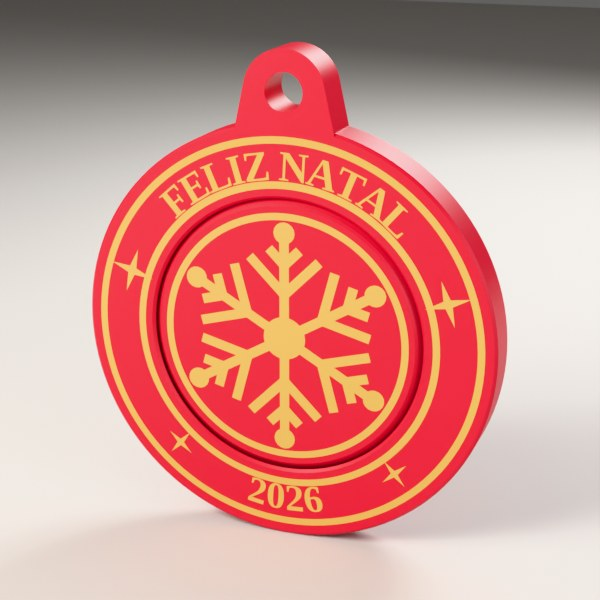
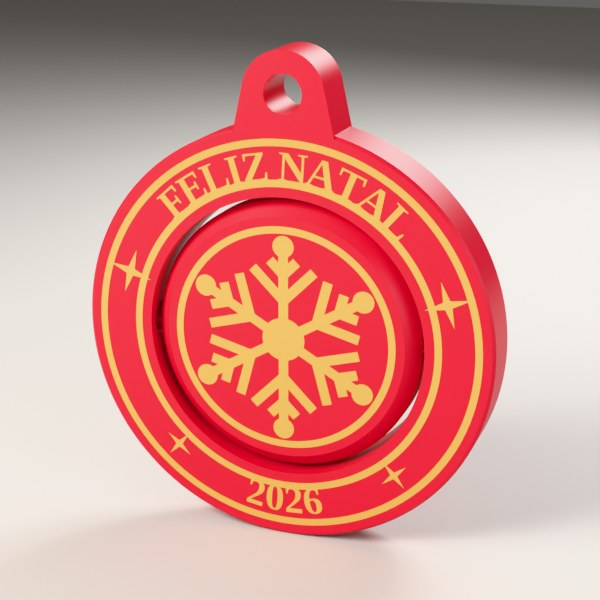
Fidget Moeda Giratória (gira para a frente), Fidget Spinner e Pião de Natal

diff --git a/index.html b/index.html
@@ -111,7 +111,7 @@ html, body { overflow-x:hidden; }
 </aside>
 <div id="toast"></div>
 <script>
-const D = {"itens": [{"id": "igreja", "nome": "Luminária Igreja Matriz", "texto": "A Matriz de Conceição do Coité iluminada por dentro, com as janelas brilhando. Base com o seu texto em letras douradas.", "img": "img/igreja.jpg", "medidas": "15,6 x 10,2 x 16,6 cm", "luz": "LED USB ou velinhas de LED", "preco": null, "preco_txt": "", "variacoes": [["Iluminação", ["LED USB", "2 velinhas de LED"]]], "campo": "Texto da base", "exemplo": "NATAL COITÉ / FAMÍLIA SILVA", "fotos": [{"quando": {"Iluminação": "2 velinhas de LED"}, "img": "img/igreja__velas.jpg"}, {"quando": {"Iluminação": "LED USB"}, "img": "img/igreja.jpg"}], "acesas": {"img/igreja.jpg": "img/igreja__acesa.jpg", "img/igreja__velas.jpg": "img/igreja__velas__acesa.jpg"}}, {"id": "arvore_luminaria", "nome": "Luminária Árvore Natal Luz", "texto": "Árvore translúcida com aros e estrela, que acende com LED. O texto contorna a base.", "img": "img/arvore_luminaria.jpg", "medidas": "12,4 x 12,5 x 24,3 cm", "luz": "LED USB", "preco": null, "preco_txt": "", "variacoes": [], "campo": "Texto da base", "exemplo": "NATAL COITÉ 2026", "fotos": [], "acesas": {"img/arvore_luminaria.jpg": "img/arvore_luminaria__acesa.jpg"}}, {"id": "estrela", "nome": "Estrela Luminosa", "texto": "A estrela de 4 pontas do Natal Coité, com a Matriz desenhada em dourado. Acende por dentro. Também no tema Natal clássico, com árvore de Natal no lugar da Matriz.", "img": "img/estrela.jpg", "medidas": "16,9 x 5,2 x 15,8 cm", "luz": "LED USB ou velinha de LED", "preco": null, "preco_txt": "", "variacoes": [["Tema", ["Natal Coité 2026", "Natal Clássico"]], ["Iluminação", ["LED USB", "Velinha de LED"]]], "campo": "Palavras dos braços", "exemplo": "NATAL / COITÉ", "fotos": [{"quando": {"Tema": "Natal Clássico", "Iluminação": "Velinha de LED"}, "img": "img/estrela__natal_velas.jpg"}, {"quando": {"Tema": "Natal Clássico"}, "img": "img/estrela__natal.jpg"}, {"quando": {"Iluminação": "Velinha de LED"}, "img": "img/estrela__velas.jpg"}, {"quando": {"Iluminação": "LED USB"}, "img": "img/estrela.jpg"}], "acesas": {"img/estrela.jpg": "img/estrela__acesa.jpg", "img/estrela__natal_velas.jpg": "img/estrela__natal_velas__acesa.jpg", "img/estrela__natal.jpg": "img/estrela__natal__acesa.jpg", "img/estrela__velas.jpg": "img/estrela__velas__acesa.jpg"}}, {"id": "presepio", "nome": "Presépio em Camadas", "texto": "Presépio em silhueta, em camadas, com a Matriz e a estrela ao fundo. Cabe uma velinha de LED atrás. Também no tema Natal clássico, com árvore de Natal no lugar da Matriz.", "img": "img/presepio.jpg", "medidas": "17 x 8,2 x 13,9 cm", "luz": "", "preco": null, "preco_txt": "", "variacoes": [["Tema", ["Natal Coité 2026", "Natal Clássico"]]], "campo": "Texto da frente", "exemplo": "NATAL COITÉ • 2026", "fotos": [{"quando": {"Tema": "Natal Clássico"}, "img": "img/presepio__natal.jpg"}], "acesas": {}}, {"id": "guirlanda", "nome": "Guirlanda de Porta", "texto": "Guirlanda de azevinho com frutinhas e medalhão central com a Matriz e o nome da família. Pronta para pendurar. Também no tema Natal clássico, com árvore de Natal no lugar da Matriz.", "img": "img/guirlanda.jpg", "medidas": "31,4 x 31,8 cm", "luz": "", "preco": null, "preco_txt": "", "variacoes": [["Tema", ["Natal Coité 2026", "Natal Clássico"]]], "campo": "Nome da família", "exemplo": "FAMÍLIA SILVA", "fotos": [{"quando": {"Tema": "Natal Clássico"}, "img": "img/guirlanda__natal.jpg"}], "acesas": {}}, {"id": "placa", "nome": "Placa de Mesa", "texto": "Placa em arco com a Matriz em traço dourado, com pé que encaixa. Ótima para a mesa da ceia ou o comércio. Também no tema Natal clássico, com árvore de Natal no lugar da Matriz.", "img": "img/placa.jpg", "medidas": "16,6 x 5,1 x 12,9 cm", "luz": "", "preco": null, "preco_txt": "", "variacoes": [["Tema", ["Natal Coité 2026", "Natal Clássico"]]], "campo": "Linha de baixo", "exemplo": "CONCEIÇÃO DO COITÉ • 2026", "fotos": [{"quando": {"Tema": "Natal Clássico"}, "img": "img/placa__natal.jpg"}], "acesas": {}}, {"id": "porta_retrato", "nome": "Porta-retrato 10x15", "texto": "Moldura com a Matriz e o nome da família em dourado, tampa de trás com trava e pezinho. Também no tema Natal clássico, com árvore de Natal no lugar da Matriz.", "img": "img/porta_retrato.jpg", "medidas": "13,4 x 6,2 x 23,3 cm", "luz": "", "preco": null, "preco_txt": "", "variacoes": [["Tema", ["Natal Coité 2026", "Natal Clássico"]]], "campo": "Nome da família", "exemplo": "FAMÍLIA SILVA • 2026", "fotos": [{"quando": {"Tema": "Natal Clássico"}, "img": "img/porta_retrato__natal.jpg"}], "acesas": {}}, {"id": "portacopos", "nome": "Jogo de Porta-copos", "texto": "4 porta-copos (Matriz, estrela, floco e nome da família) num suporte com a fachada da Matriz. Também no tema Natal clássico, com árvore de Natal no lugar da Matriz.", "img": "img/portacopos.jpg", "medidas": "10,2 x 10,2 x 8,5 cm", "luz": "", "preco": null, "preco_txt": "", "variacoes": [["Tema", ["Natal Coité 2026", "Natal Clássico"]], ["Desenhos", ["Jogo variado", "Todos Matriz", "Todos estrela", "Todos floco de neve", "Todos com o nome"]], ["Suporte", ["Com suporte da Matriz", "Sem suporte"]]], "campo": "Nome da família", "exemplo": "FAMÍLIA SILVA", "fotos": [{"quando": {"Tema": "Natal Clássico"}, "img": "img/portacopos__natal.jpg"}, {"quando": {"Desenhos": "Jogo variado", "Suporte": "Com suporte da Matriz"}, "img": "img/portacopos__variado_sim.jpg"}, {"quando": {"Desenhos": "Jogo variado", "Suporte": "Sem suporte"}, "img": "img/portacopos__variado_nao.jpg"}, {"quando": {"Desenhos": "Todos Matriz", "Suporte": "Com suporte da Matriz"}, "img": "img/portacopos__matriz_sim.jpg"}, {"quando": {"Desenhos": "Todos Matriz", "Suporte": "Sem suporte"}, "img": "img/portacopos__matriz_nao.jpg"}, {"quando": {"Desenhos": "Todos estrela", "Suporte": "Com suporte da Matriz"}, "img": "img/portacopos__estrela_sim.jpg"}, {"quando": {"Desenhos": "Todos estrela", "Suporte": "Sem suporte"}, "img": "img/portacopos__estrela_nao.jpg"}, {"quando": {"Desenhos": "Todos floco de neve", "Suporte": "Com suporte da Matriz"}, "img": "img/portacopos__floco_sim.jpg"}, {"quando": {"Desenhos": "Todos floco de neve", "Suporte": "Sem suporte"}, "img": "img/portacopos__floco_nao.jpg"}, {"quando": {"Desenhos": "Todos com o nome", "Suporte": "Com suporte da Matriz"}, "img": "img/portacopos__nome_sim.jpg"}, {"quando": {"Desenhos": "Todos com o nome", "Suporte": "Sem suporte"}, "img": "img/portacopos__nome_nao.jpg"}], "acesas": {}}, {"id": "miniatura", "nome": "Miniatura da Matriz", "texto": "A Igreja Matriz em 3D, pequena, para pendurar na árvore ou enfeitar a estante.", "img": "img/miniatura.jpg", "medidas": "6,3 x 4 x 6,1 cm", "luz": "", "preco": null, "preco_txt": "", "variacoes": [["Uso", ["Enfeite de árvore (com argola)", "Peça de mesa (sem argola)"]]], "campo": "Nome gravado atrás (opcional)", "exemplo": "FAMÍLIA SILVA", "fotos": [{"quando": {"Uso": "Peça de mesa (sem argola)"}, "img": "img/miniatura__sem_argola.jpg"}, {"quando": {"Uso": "Enfeite de árvore (com argola)"}, "img": "img/miniatura.jpg"}], "acesas": {}}, {"id": "bola", "nome": "Bola de Natal com Nome", "texto": "Bola de 8 cm com o nome em letras douradas na frente e a Matriz no verso. Também no tema Natal clássico, com árvore de Natal e FELIZ NATAL no verso.", "img": "img/bola.jpg", "medidas": "8 x 8,2 x 9 cm", "luz": "", "preco": null, "preco_txt": "", "variacoes": [["Tema", ["Natal Coité 2026", "Natal Clássico"]], ["Verso", ["Desenho do tema", "Floco de neve"]]], "campo": "Nome", "exemplo": "MARIA", "fotos": [{"quando": {"Tema": "Natal Coité 2026", "Verso": "Desenho do tema"}, "img": "img/bola__matriz.jpg"}, {"quando": {"Tema": "Natal Clássico", "Verso": "Desenho do tema"}, "img": "img/bola__arvore.jpg"}, {"quando": {"Verso": "Floco de neve"}, "img": "img/bola__floco.jpg"}], "acesas": {}}, {"id": "chaveiro", "nome": "Chaveiro Igreja, Árvore ou Circo", "texto": "Chaveiro no contorno da nossa Matriz, de uma árvore de Natal ou da lona de circo (tema do Natal 2026). Leve e resistente.", "img": "img/chaveiro.jpg", "medidas": "11 x 6,1 cm", "luz": "", "preco": null, "preco_txt": "", "variacoes": [["Modelo", ["Igreja Matriz", "Árvore de Natal", "Circo"]]], "campo": "Texto da faixa", "exemplo": "NATAL COITÉ", "fotos": [{"quando": {"Modelo": "Igreja Matriz"}, "img": "img/chaveiro__igreja.jpg"}, {"quando": {"Modelo": "Circo"}, "img": "img/chaveiro__circo.jpg"}, {"quando": {"Modelo": "Árvore de Natal"}, "img": "img/chaveiro__arvore.jpg"}], "acesas": {}}, {"id": "fidget", "nome": "Fidget Giratório", "texto": "Chaveiro que gira de verdade e já sai pronto da impressora: roleta de circo (tema do Natal 2026) ou floco de neve com FELIZ NATAL (Natal clássico).", "img": "img/fidget.jpg", "medidas": "4,7 x 5,5 cm", "luz": "", "preco": null, "preco_txt": "", "variacoes": [["Tema", ["Natal Coité 2026", "Natal Clássico"]]], "campo": "Texto do arco", "exemplo": "NATAL COITÉ", "fotos": [{"quando": {"Tema": "Natal Clássico"}, "img": "img/fidget__natal.jpg"}], "acesas": {}}, {"id": "medalhao", "nome": "Medalhão: enfeite, chaveiro ou ímã", "texto": "Arco, estrela e a Matriz em dourado. Em três tamanhos: enfeite de árvore, chaveiro ou ímã de geladeira. Também no tema Natal clássico, com árvore de Natal no lugar da Matriz.", "img": "img/medalhao.jpg", "medidas": "Ø 8 cm / 4,5 cm / 5,5 cm", "luz": "", "preco": null, "preco_txt": "", "variacoes": [["Tema", ["Natal Coité 2026", "Natal Clássico"]], ["Formato", ["Enfeite de árvore Ø 8 cm", "Chaveiro Ø 4,5 cm", "Ímã de geladeira Ø 5,5 cm"]]], "campo": "", "exemplo": "", "fotos": [{"quando": {"Tema": "Natal Clássico"}, "img": "img/medalhao__natal.jpg"}, {"quando": {"Formato": "Chaveiro Ø 4,5 cm"}, "img": "img/medalhao__chaveiro.jpg"}, {"quando": {"Formato": "Ímã de geladeira Ø 5,5 cm"}, "img": "img/medalhao__ima.jpg"}, {"quando": {"Formato": "Enfeite de árvore Ø 8 cm"}, "img": "img/medalhao.jpg"}], "acesas": {}}, {"id": "tags", "nome": "Tags de Presente", "texto": "Etiquetas com a Matriz e o nome de quem vai ganhar o presente, ou em branco para escrever. Também no tema Natal clássico, com árvore de Natal no lugar da Matriz.", "img": "img/tags.jpg", "medidas": "4,4 x 7,2 cm", "luz": "", "preco": null, "preco_txt": "", "variacoes": [["Tema", ["Natal Coité 2026", "Natal Clássico"]]], "campo": "Nome (vazio = tag em branco DE/PARA)", "exemplo": "MARIA", "fotos": [{"quando": {"Tema": "Natal Clássico"}, "img": "img/tags__natal.jpg"}], "acesas": {}}, {"id": "marcador", "nome": "Marcador de Página", "texto": "Marcador com o nome, a Matriz em dourado e clipe que prende na página, com a pontinha da estrela para fora do livro. Lembrança que dura o ano todo. Também no tema Natal clássico, com árvore de Natal no lugar da Matriz.", "img": "img/marcador.jpg", "medidas": "4,8 x 16 cm", "luz": "", "preco": null, "preco_txt": "", "variacoes": [["Tema", ["Natal Coité 2026", "Natal Clássico"]]], "campo": "Nome", "exemplo": "ANA BEATRIZ", "fotos": [{"quando": {"Tema": "Natal Clássico"}, "img": "img/marcador__natal.jpg"}], "acesas": {}}], "whats": "5575992067303", "loja": "Loja Sigma Lab - Natal 2026", "marca": "Sigma Lab 3D"};
+const D = {"itens": [{"id": "igreja", "nome": "Luminária Igreja Matriz", "texto": "A Matriz de Conceição do Coité iluminada por dentro, com as janelas brilhando. Base com o seu texto em letras douradas.", "img": "img/igreja.jpg", "medidas": "15,6 x 10,2 x 16,6 cm", "luz": "LED USB ou velinhas de LED", "preco": null, "preco_txt": "", "variacoes": [["Iluminação", ["LED USB", "2 velinhas de LED"]]], "campo": "Texto da base", "exemplo": "NATAL COITÉ / FAMÍLIA SILVA", "fotos": [{"quando": {"Iluminação": "2 velinhas de LED"}, "img": "img/igreja__velas.jpg"}, {"quando": {"Iluminação": "LED USB"}, "img": "img/igreja.jpg"}], "acesas": {"img/igreja.jpg": "img/igreja__acesa.jpg", "img/igreja__velas.jpg": "img/igreja__velas__acesa.jpg"}}, {"id": "arvore_luminaria", "nome": "Luminária Árvore Natal Luz", "texto": "Árvore translúcida com aros e estrela, que acende com LED. O texto contorna a base.", "img": "img/arvore_luminaria.jpg", "medidas": "12,4 x 12,5 x 24,3 cm", "luz": "LED USB", "preco": null, "preco_txt": "", "variacoes": [], "campo": "Texto da base", "exemplo": "NATAL COITÉ 2026", "fotos": [], "acesas": {"img/arvore_luminaria.jpg": "img/arvore_luminaria__acesa.jpg"}}, {"id": "estrela", "nome": "Estrela Luminosa", "texto": "A estrela de 4 pontas do Natal Coité, com a Matriz desenhada em dourado. Acende por dentro. Também no tema Natal clássico, com árvore de Natal no lugar da Matriz.", "img": "img/estrela.jpg", "medidas": "16,9 x 5,2 x 15,8 cm", "luz": "LED USB ou velinha de LED", "preco": null, "preco_txt": "", "variacoes": [["Tema", ["Natal Coité 2026", "Natal Clássico"]], ["Iluminação", ["LED USB", "Velinha de LED"]]], "campo": "Palavras dos braços", "exemplo": "NATAL / COITÉ", "fotos": [{"quando": {"Tema": "Natal Clássico", "Iluminação": "Velinha de LED"}, "img": "img/estrela__natal_velas.jpg"}, {"quando": {"Tema": "Natal Clássico"}, "img": "img/estrela__natal.jpg"}, {"quando": {"Iluminação": "Velinha de LED"}, "img": "img/estrela__velas.jpg"}, {"quando": {"Iluminação": "LED USB"}, "img": "img/estrela.jpg"}], "acesas": {"img/estrela.jpg": "img/estrela__acesa.jpg", "img/estrela__natal_velas.jpg": "img/estrela__natal_velas__acesa.jpg", "img/estrela__natal.jpg": "img/estrela__natal__acesa.jpg", "img/estrela__velas.jpg": "img/estrela__velas__acesa.jpg"}}, {"id": "presepio", "nome": "Presépio em Camadas", "texto": "Presépio em silhueta, em camadas, com a Matriz e a estrela ao fundo. Cabe uma velinha de LED atrás. Também no tema Natal clássico, com árvore de Natal no lugar da Matriz.", "img": "img/presepio.jpg", "medidas": "17 x 8,2 x 13,9 cm", "luz": "", "preco": null, "preco_txt": "", "variacoes": [["Tema", ["Natal Coité 2026", "Natal Clássico"]]], "campo": "Texto da frente", "exemplo": "NATAL COITÉ • 2026", "fotos": [{"quando": {"Tema": "Natal Clássico"}, "img": "img/presepio__natal.jpg"}], "acesas": {}}, {"id": "guirlanda", "nome": "Guirlanda de Porta", "texto": "Guirlanda de azevinho com frutinhas e medalhão central com a Matriz e o nome da família. Pronta para pendurar. Também no tema Natal clássico, com árvore de Natal no lugar da Matriz.", "img": "img/guirlanda.jpg", "medidas": "31,4 x 31,8 cm", "luz": "", "preco": null, "preco_txt": "", "variacoes": [["Tema", ["Natal Coité 2026", "Natal Clássico"]]], "campo": "Nome da família", "exemplo": "FAMÍLIA SILVA", "fotos": [{"quando": {"Tema": "Natal Clássico"}, "img": "img/guirlanda__natal.jpg"}], "acesas": {}}, {"id": "placa", "nome": "Placa de Mesa", "texto": "Placa em arco com a Matriz em traço dourado, com pé que encaixa. Ótima para a mesa da ceia ou o comércio. Também no tema Natal clássico, com árvore de Natal no lugar da Matriz.", "img": "img/placa.jpg", "medidas": "16,6 x 5,1 x 12,9 cm", "luz": "", "preco": null, "preco_txt": "", "variacoes": [["Tema", ["Natal Coité 2026", "Natal Clássico"]]], "campo": "Linha de baixo", "exemplo": "CONCEIÇÃO DO COITÉ • 2026", "fotos": [{"quando": {"Tema": "Natal Clássico"}, "img": "img/placa__natal.jpg"}], "acesas": {}}, {"id": "porta_retrato", "nome": "Porta-retrato 10x15", "texto": "Moldura com a Matriz e o nome da família em dourado, tampa de trás com trava e pezinho. Também no tema Natal clássico, com árvore de Natal no lugar da Matriz.", "img": "img/porta_retrato.jpg", "medidas": "13,4 x 6,2 x 23,3 cm", "luz": "", "preco": null, "preco_txt": "", "variacoes": [["Tema", ["Natal Coité 2026", "Natal Clássico"]]], "campo": "Nome da família", "exemplo": "FAMÍLIA SILVA • 2026", "fotos": [{"quando": {"Tema": "Natal Clássico"}, "img": "img/porta_retrato__natal.jpg"}], "acesas": {}}, {"id": "portacopos", "nome": "Jogo de Porta-copos", "texto": "4 porta-copos (Matriz, estrela, floco e nome da família) num suporte com a fachada da Matriz. Também no tema Natal clássico, com árvore de Natal no lugar da Matriz.", "img": "img/portacopos.jpg", "medidas": "10,2 x 10,2 x 8,5 cm", "luz": "", "preco": null, "preco_txt": "", "variacoes": [["Tema", ["Natal Coité 2026", "Natal Clássico"]], ["Desenhos", ["Jogo variado", "Todos Matriz", "Todos estrela", "Todos floco de neve", "Todos com o nome"]], ["Suporte", ["Com suporte da Matriz", "Sem suporte"]]], "campo": "Nome da família", "exemplo": "FAMÍLIA SILVA", "fotos": [{"quando": {"Tema": "Natal Clássico"}, "img": "img/portacopos__natal.jpg"}, {"quando": {"Desenhos": "Jogo variado", "Suporte": "Com suporte da Matriz"}, "img": "img/portacopos__variado_sim.jpg"}, {"quando": {"Desenhos": "Jogo variado", "Suporte": "Sem suporte"}, "img": "img/portacopos__variado_nao.jpg"}, {"quando": {"Desenhos": "Todos Matriz", "Suporte": "Com suporte da Matriz"}, "img": "img/portacopos__matriz_sim.jpg"}, {"quando": {"Desenhos": "Todos Matriz", "Suporte": "Sem suporte"}, "img": "img/portacopos__matriz_nao.jpg"}, {"quando": {"Desenhos": "Todos estrela", "Suporte": "Com suporte da Matriz"}, "img": "img/portacopos__estrela_sim.jpg"}, {"quando": {"Desenhos": "Todos estrela", "Suporte": "Sem suporte"}, "img": "img/portacopos__estrela_nao.jpg"}, {"quando": {"Desenhos": "Todos floco de neve", "Suporte": "Com suporte da Matriz"}, "img": "img/portacopos__floco_sim.jpg"}, {"quando": {"Desenhos": "Todos floco de neve", "Suporte": "Sem suporte"}, "img": "img/portacopos__floco_nao.jpg"}, {"quando": {"Desenhos": "Todos com o nome", "Suporte": "Com suporte da Matriz"}, "img": "img/portacopos__nome_sim.jpg"}, {"quando": {"Desenhos": "Todos com o nome", "Suporte": "Sem suporte"}, "img": "img/portacopos__nome_nao.jpg"}], "acesas": {}}, {"id": "miniatura", "nome": "Miniatura da Matriz", "texto": "A Igreja Matriz em 3D, pequena, para pendurar na árvore ou enfeitar a estante.", "img": "img/miniatura.jpg", "medidas": "6,3 x 4 x 6,1 cm", "luz": "", "preco": null, "preco_txt": "", "variacoes": [["Uso", ["Enfeite de árvore (com argola)", "Peça de mesa (sem argola)"]]], "campo": "Nome gravado atrás (opcional)", "exemplo": "FAMÍLIA SILVA", "fotos": [{"quando": {"Uso": "Peça de mesa (sem argola)"}, "img": "img/miniatura__sem_argola.jpg"}, {"quando": {"Uso": "Enfeite de árvore (com argola)"}, "img": "img/miniatura.jpg"}], "acesas": {}}, {"id": "bola", "nome": "Bola de Natal com Nome", "texto": "Bola de 8 cm com o nome em letras douradas na frente e a Matriz no verso. Também no tema Natal clássico, com árvore de Natal e FELIZ NATAL no verso.", "img": "img/bola.jpg", "medidas": "8 x 8,2 x 9 cm", "luz": "", "preco": null, "preco_txt": "", "variacoes": [["Tema", ["Natal Coité 2026", "Natal Clássico"]], ["Verso", ["Desenho do tema", "Floco de neve"]]], "campo": "Nome", "exemplo": "MARIA", "fotos": [{"quando": {"Tema": "Natal Coité 2026", "Verso": "Desenho do tema"}, "img": "img/bola__matriz.jpg"}, {"quando": {"Tema": "Natal Clássico", "Verso": "Desenho do tema"}, "img": "img/bola__arvore.jpg"}, {"quando": {"Verso": "Floco de neve"}, "img": "img/bola__floco.jpg"}], "acesas": {}}, {"id": "chaveiro", "nome": "Chaveiro Igreja, Árvore ou Circo", "texto": "Chaveiro no contorno da nossa Matriz, de uma árvore de Natal ou da lona de circo (tema do Natal 2026). Leve e resistente.", "img": "img/chaveiro.jpg", "medidas": "11 x 6,1 cm", "luz": "", "preco": null, "preco_txt": "", "variacoes": [["Modelo", ["Igreja Matriz", "Árvore de Natal", "Circo"]]], "campo": "Texto da faixa", "exemplo": "NATAL COITÉ", "fotos": [{"quando": {"Modelo": "Igreja Matriz"}, "img": "img/chaveiro__igreja.jpg"}, {"quando": {"Modelo": "Circo"}, "img": "img/chaveiro__circo.jpg"}, {"quando": {"Modelo": "Árvore de Natal"}, "img": "img/chaveiro__arvore.jpg"}], "acesas": {}}, {"id": "fidget", "nome": "Fidget Moeda Giratória", "texto": "Chaveiro que gira de verdade e já sai pronto da impressora: o disco vira para a frente, como moeda. De um lado a roleta do circo, do outro a Matriz (no Natal Clássico: floco de neve e árvore).", "img": "img/fidget.jpg", "medidas": "4,6 x 5,4 cm", "luz": "", "preco": null, "preco_txt": "", "variacoes": [["Tema", ["Natal Coité 2026", "Natal Clássico"]]], "campo": "Texto do arco", "exemplo": "NATAL COITÉ", "fotos": [{"quando": {"Tema": "Natal Clássico"}, "img": "img/fidget__natal.jpg"}], "acesas": {}}, {"id": "spinner", "nome": "Fidget Spinner", "texto": "Spinner de 3 braços com estrelas douradas (no Natal Clássico, flocos de neve). Sai pronto da impressora ou com rolamento 608, que gira muito mais tempo.", "img": "img/spinner.jpg", "medidas": "7,2 x 7,2 cm", "luz": "", "preco": null, "preco_txt": "", "variacoes": [["Tema", ["Natal Coité 2026", "Natal Clássico"]], ["Tipo", ["Pronto da impressora", "Com rolamento 608"]]], "campo": "Observação (opcional)", "exemplo": "cores: vermelho e dourado", "fotos": [{"quando": {"Tema": "Natal Clássico"}, "img": "img/spinner__natal.jpg"}, {"quando": {"Tipo": "Com rolamento 608"}, "img": "img/spinner__608.jpg"}], "acesas": {}}, {"id": "piao", "nome": "Pião de Natal", "texto": "Pião de mesa com texto em volta e anel de estrelas douradas que vira um círculo quando gira. Haste com estrias para girar com os dedos.", "img": "img/piao.jpg", "medidas": "Ø 5 cm x 5 cm", "luz": "", "preco": null, "preco_txt": "", "variacoes": [["Tema", ["Natal Coité 2026", "Natal Clássico"]]], "campo": "Texto em volta", "exemplo": "NATAL COITÉ • 2026", "fotos": [{"quando": {"Tema": "Natal Clássico"}, "img": "img/piao__natal.jpg"}], "acesas": {}}, {"id": "medalhao", "nome": "Medalhão: enfeite, chaveiro ou ímã", "texto": "Arco, estrela e a Matriz em dourado. Em três tamanhos: enfeite de árvore, chaveiro ou ímã de geladeira. Também no tema Natal clássico, com árvore de Natal no lugar da Matriz.", "img": "img/medalhao.jpg", "medidas": "Ø 8 cm / 4,5 cm / 5,5 cm", "luz": "", "preco": null, "preco_txt": "", "variacoes": [["Tema", ["Natal Coité 2026", "Natal Clássico"]], ["Formato", ["Enfeite de árvore Ø 8 cm", "Chaveiro Ø 4,5 cm", "Ímã de geladeira Ø 5,5 cm"]]], "campo": "", "exemplo": "", "fotos": [{"quando": {"Tema": "Natal Clássico"}, "img": "img/medalhao__natal.jpg"}, {"quando": {"Formato": "Chaveiro Ø 4,5 cm"}, "img": "img/medalhao__chaveiro.jpg"}, {"quando": {"Formato": "Ímã de geladeira Ø 5,5 cm"}, "img": "img/medalhao__ima.jpg"}, {"quando": {"Formato": "Enfeite de árvore Ø 8 cm"}, "img": "img/medalhao.jpg"}], "acesas": {}}, {"id": "tags", "nome": "Tags de Presente", "texto": "Etiquetas com a Matriz e o nome de quem vai ganhar o presente, ou em branco para escrever. Também no tema Natal clássico, com árvore de Natal no lugar da Matriz.", "img": "img/tags.jpg", "medidas": "4,4 x 7,2 cm", "luz": "", "preco": null, "preco_txt": "", "variacoes": [["Tema", ["Natal Coité 2026", "Natal Clássico"]]], "campo": "Nome (vazio = tag em branco DE/PARA)", "exemplo": "MARIA", "fotos": [{"quando": {"Tema": "Natal Clássico"}, "img": "img/tags__natal.jpg"}], "acesas": {}}, {"id": "marcador", "nome": "Marcador de Página", "texto": "Marcador com o nome, a Matriz em dourado e clipe que prende na página, com a pontinha da estrela para fora do livro. Lembrança que dura o ano todo. Também no tema Natal clássico, com árvore de Natal no lugar da Matriz.", "img": "img/marcador.jpg", "medidas": "4,8 x 16 cm", "luz": "", "preco": null, "preco_txt": "", "variacoes": [["Tema", ["Natal Coité 2026", "Natal Clássico"]]], "campo": "Nome", "exemplo": "ANA BEATRIZ", "fotos": [{"quando": {"Tema": "Natal Clássico"}, "img": "img/marcador__natal.jpg"}], "acesas": {}}], "whats": "5575992067303", "loja": "Loja Sigma Lab - Natal 2026", "marca": "Sigma Lab 3D"};
 const R$ = v => v.toLocaleString("pt-BR", {style: "currency", currency: "BRL"});
 const esc = s => String(s).replace(/[&<>"']/g, c => ({"&":"&amp;","<":"&lt;",">":"&gt;",'"':"&quot;","'":"&#39;"}[c]));
 let car = []; try { car = JSON.parse(localStorage.getItem("carrinho_natal_coite") || "[]"); } catch (e) { car = []; }
